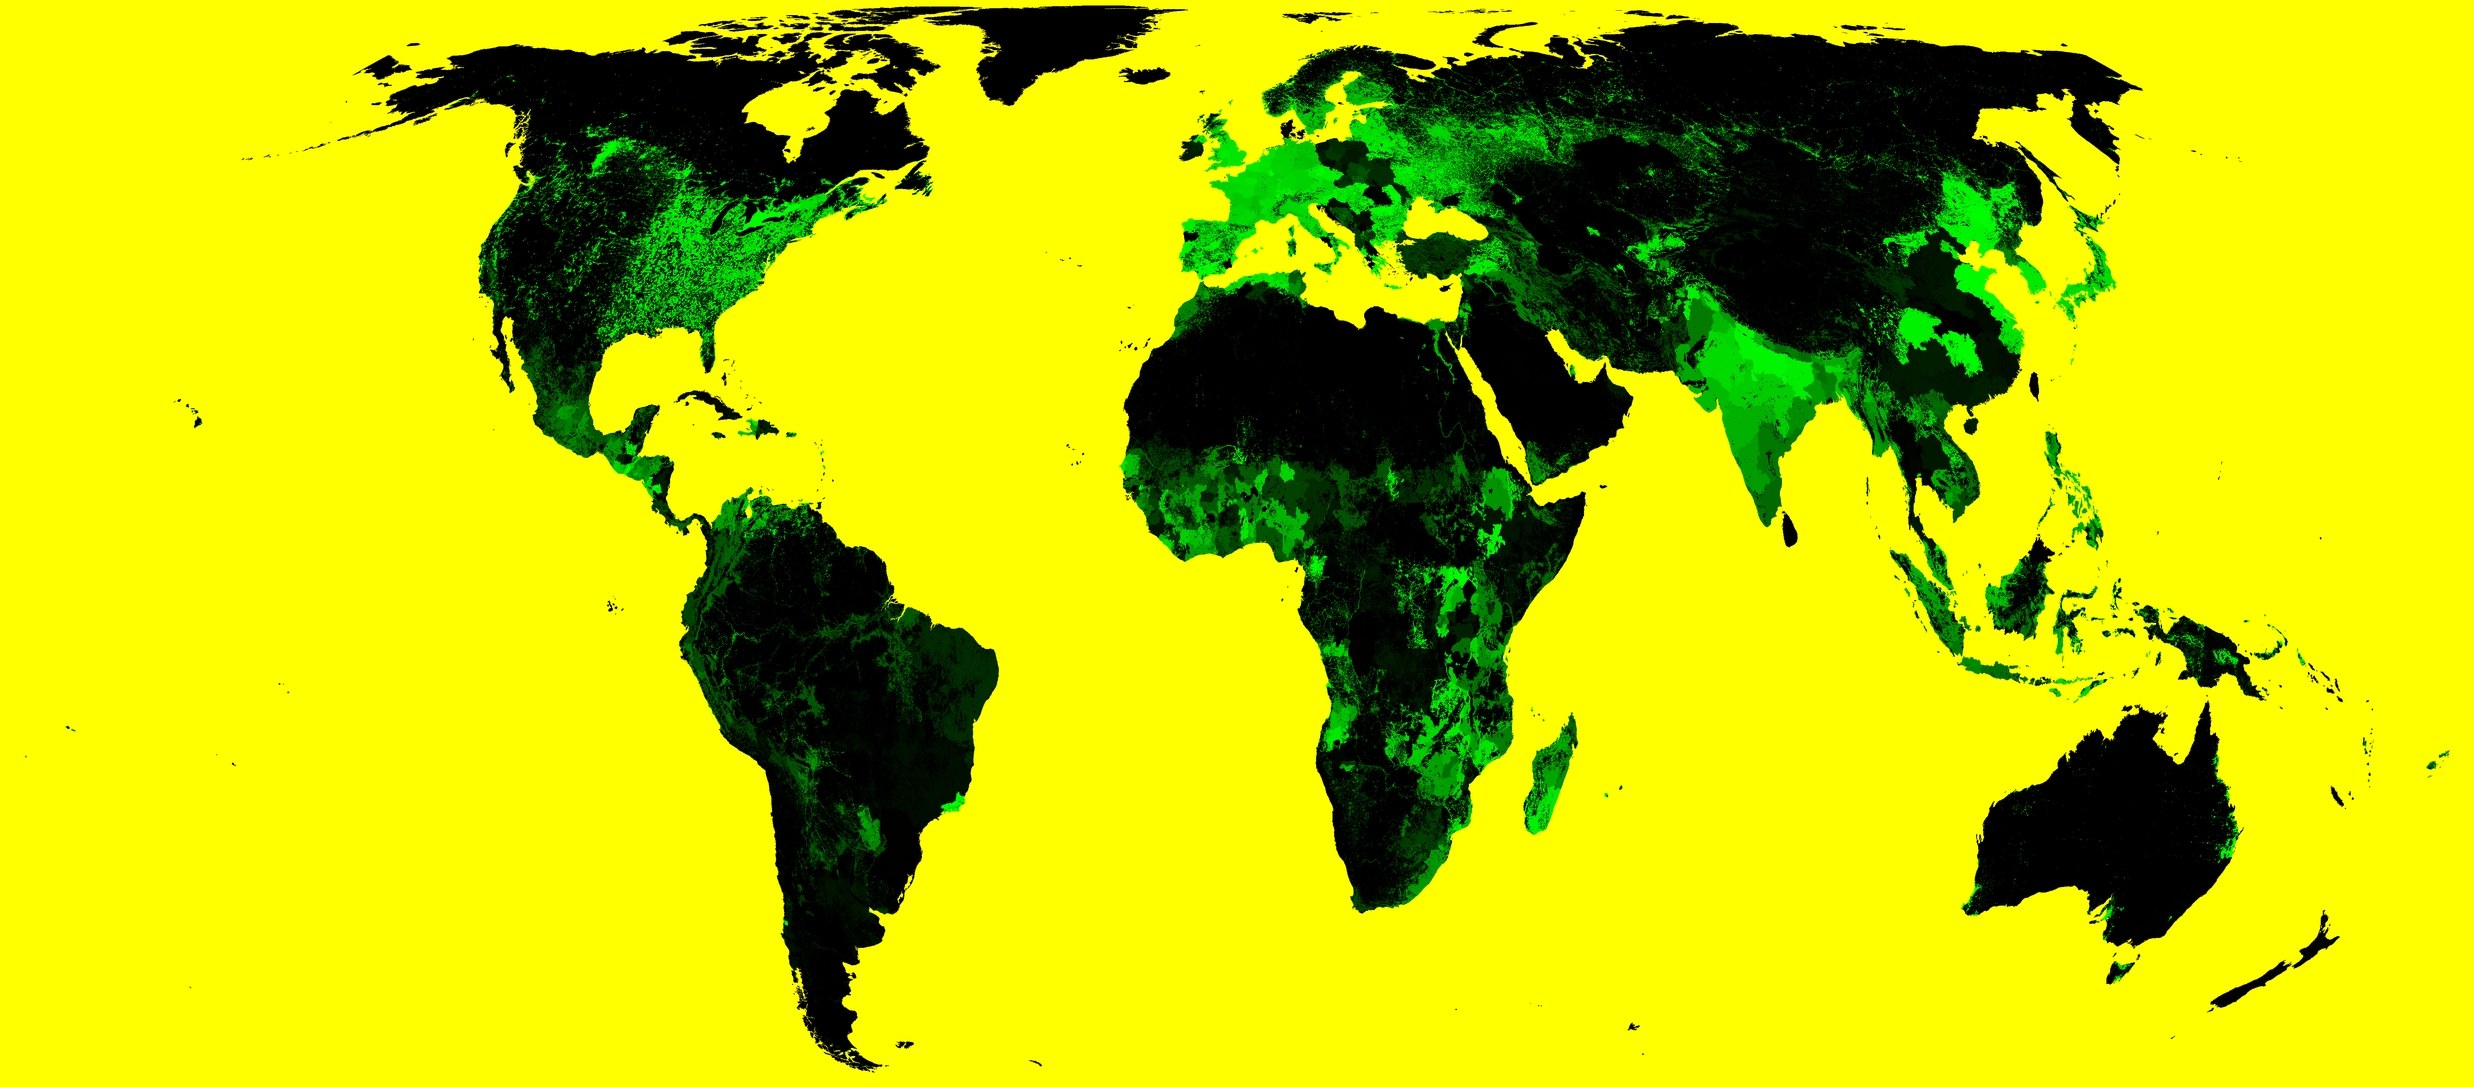
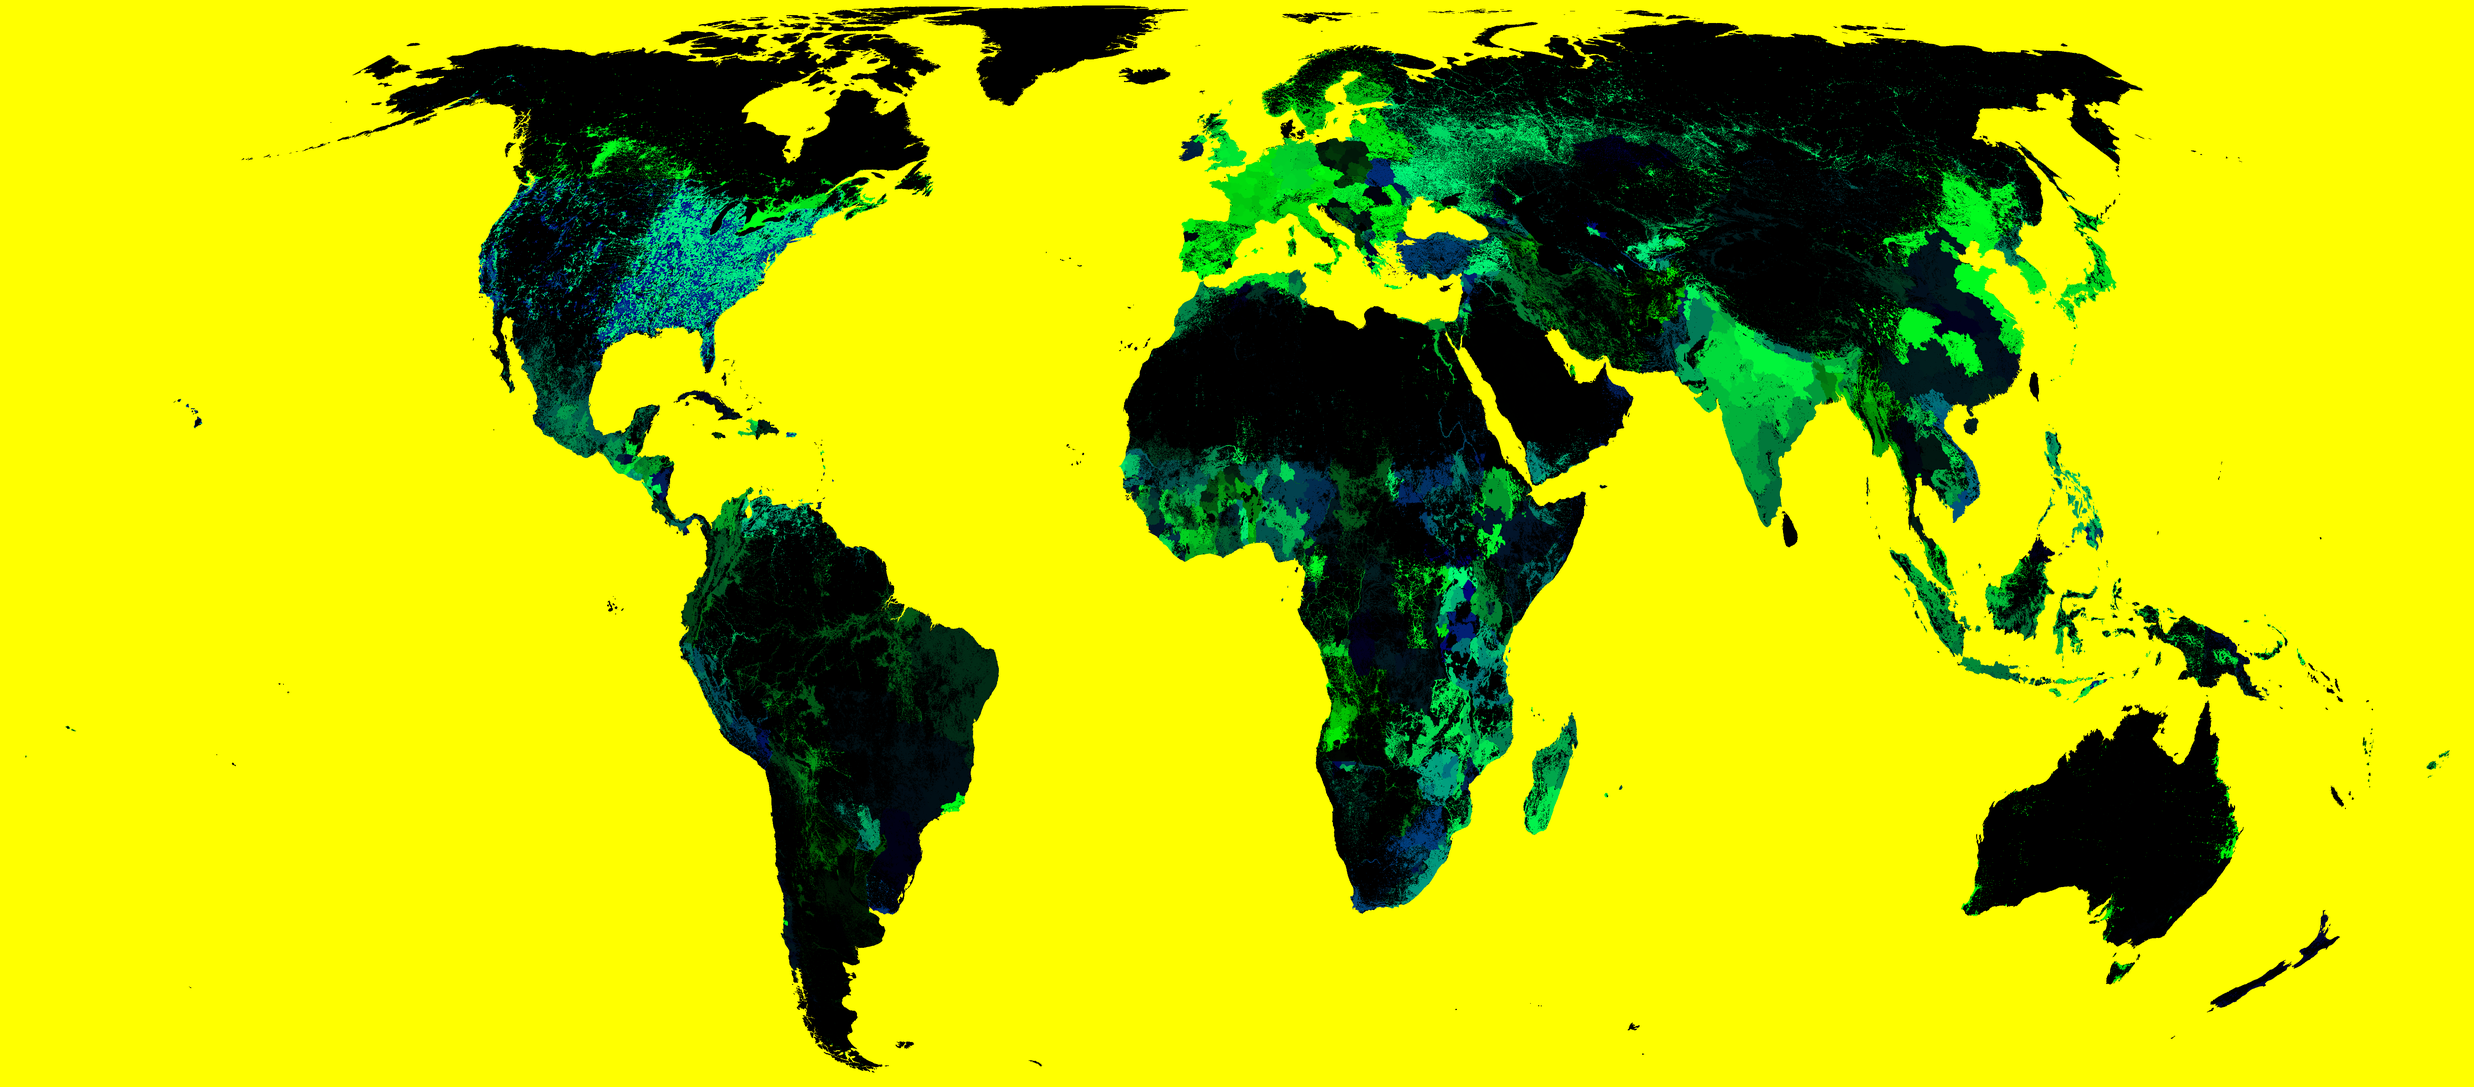
worldColumns: household readout says its source and year; US tracts weighted by people
Hovering on the household map now adds where the figure comes from and how
old it is ("2000 census, scaled to the UN's 2020 figure", "ACS 2020-2024,
by census tract", "UN national figure, 2016"), stored per cell in the PNG's
blue channel as an index into 134 labels in layers.json.

US tracts now share their households among their pixels by GHS-POP
population instead of area, so a big rural tract's households land in its
towns. 14% of US cells moved by more than 0.05 and 1.7% by more than 0.2;
the national figure stays 2.53 and nothing outside the US changed.

diff --git a/worldColumns/main.js b/worldColumns/main.js
@@ -598,7 +598,22 @@ async function loadMap(map, period) {
       if (map === 'windows') values[i] = r === noData ? NO_VALUE : r;
       else values[i] = (r << 8) | g;
     }
-    decoded.set(file, {values, width, height, cell: WORLD / width});
+    // A map with `sources` keeps, in blue, which one each cell's figure
+    // comes from (the household map: which census or survey, and its year).
+    const labels = map === 'windows' ? null : layers.layers[map].sources;
+    let source = null;
+    if (labels) {
+      source = new Uint8Array(width * height);
+      for (let i = 0; i < source.length; i++) source[i] = rgba[i * 4 + 2];
+    }
+    decoded.set(file, {
+      values,
+      width,
+      height,
+      cell: WORLD / width,
+      source,
+      labels,
+    });
   }
   return decoded.get(file);
 }
@@ -1118,6 +1133,12 @@ function showReadout() {
   b.textContent = emptyText(value) ?? map.format(value) + map.readout;
   if (map.top && value > map.top) b.textContent += map.doubt;
   readout.append(b);
+  const from = src.source?.[cy * src.width + cx];
+  if (from) {
+    const note = document.createElement('small');
+    note.textContent = src.labels[from];
+    readout.append(document.createElement('br'), note);
+  }
   // Beside the pointer, kept on screen: to the left of it near the right
   // edge, above it near the bottom (a finger covers what's below).
   readout.hidden = false;

diff --git a/worldColumns/index.html b/worldColumns/index.html
@@ -44,6 +44,7 @@
   }
   .readout { position: fixed; left: 0; top: 0; pointer-events: none; font: 300 12px/1.35 Jost, sans-serif; color: var(--ink); text-shadow: 0 0 3px var(--halo), 0 0 6px var(--halo), 0 0 9px var(--halo); white-space: nowrap; }
   .readout b { font-weight: 400; font-size: 14px; }
+  .readout small { font-size: 11px; opacity: 0.75; }
   .readout[hidden] { display: none; }
   body.glide .maps, body.glide .help, body.glide .readout, body.glide .lil-gui { display: none !important; }
 </style>

diff --git a/worldColumns/build/layers.py b/worldColumns/build/layers.py
@@ -281,7 +281,8 @@ def household(grid, people, land):
     CORESIDENCE has none; Saudi Arabia, Taiwan and the UAE, with neither,
     have none. The US and Puerto Rico come from census tracts instead (see
     us_tracts). 0 where fewer than 1 person per km² lives, 1 on land no
-    source covers."""
+    source covers. Also returns where each cell's figure comes from, as an
+    index into the list of labels it returns too (0 for none)."""
     import csv
     import sqlite3
     un = un_household_sizes()
@@ -299,17 +300,31 @@ def household(grid, people, land):
     db = sqlite3.connect(os.path.join(SOURCES, 'SUBNATIONAL_BOUNDARIES_CORESIDENCE_PROJECT.gpkg'))
     db_country = dict(db.execute('select GEOLEVEL1, C1 from a1_world_subnational_coresidence_new'))
     fix = {'URU': 'URY'}
-    values = []
+    labels = ['']
+    def label(text):
+        if text not in labels:
+            labels.append(text)
+        return labels.index(text)
+
+    kinds = {'IPUMS': 'census', 'DHS': 'DHS survey', 'MICS': 'MICS survey', 'LFS': 'labour force survey',
+             'SILC': 'EU income survey', 'HILDA': 'HILDA survey'}
+    values, sources = [], []
     for code in codes:
         iso = fix.get(db_country[code], db_country[code])
         if code in latest:
             year, sample, v = latest[code]
+            _, when, kind = sample.split('_')
+            text = f"{when.replace('-', '–')} {kinds.get(kind, 'survey')}"
             if iso in un and un[iso][0] > year and sample in national:
                 v *= un[iso][1] / national[sample]
+                text += f", scaled to the UN's {un[iso][0]} figure"
+            sources.append(label(text))
         else:
             v = un.get(iso, (0, np.nan))[1]
+            sources.append(label(f'UN national figure, {un[iso][0]}') if iso in un else 0)
         values.append(v)
     values = np.array(values + [np.nan])  # the last for cells in no region
+    sources = np.array(sources + [0])
     region = spread(rasterize(grid, [shapes[c] for c in codes]), land, 2)
     region_iso = np.array([fix.get(db_country[c], db_country[c]) for c in codes] + [''])[region]
     # Under the regions, every country with a UN figure, for the places
@@ -317,7 +332,7 @@ def household(grid, people, land):
     countries = json.load(open(os.path.join(SOURCES, 'ne_10m_admin_0_countries.geojson')))['features']
     # CORESIDENCE's outlines are generalized: Malaysia's covers Singapore and
     # China's Taiwan, so a region counts only inside its own country.
-    outlines, sizes, isos = [], [], []
+    outlines, sizes, isos, country_sources = [], [], [], []
     for f in countries:
         p = f['properties']
         iso = p['ISO_A3'] if p['ISO_A3'] != '-99' else p['ADM0_A3']
@@ -327,16 +342,25 @@ def household(grid, people, land):
         outlines.append([np.array(poly[0]) for poly in polygons])
         sizes.append(un.get(iso, (0, np.nan))[1])
         isos.append(iso)
+        country_sources.append(label(f'UN national figure, {un[iso][0]}') if iso in un else 0)
     country = spread(rasterize(grid, outlines), land, 6)
     country_iso = np.array(isos + [''])[country]
-    out = values[region]
-    out = np.where((country_iso == '') | (country_iso == region_iso), out, np.nan)
-    out = np.where(np.isnan(out), np.array(sizes + [np.nan])[country], out)
+    own = (country_iso == '') | (country_iso == region_iso)
+    out = np.where(own, values[region], np.nan)
+    source = np.where(own & ~np.isnan(out), sources[region], 0)
+    fallback = np.isnan(out)
+    out = np.where(fallback, np.array(sizes + [np.nan])[country], out)
+    source = np.where(fallback, np.array(country_sources + [0])[country], source)
     # The US and Puerto Rico by census tract, far finer than their states.
-    tract = us_tracts(grid)
-    out = np.where(np.isin(country_iso, ['USA', 'PRI']) & ~np.isnan(tract), tract, out)
+    tract = us_tracts(grid, people)
+    us = np.isin(country_iso, ['USA', 'PRI']) & ~np.isnan(tract)
+    out = np.where(us, tract, out)
+    source = np.where(us, label('ACS 2020–2024, by census tract'), source)
+    lived = people >= 1
+    source = np.where(lived & ~np.isnan(out), source, 0)
     out = np.where(np.isnan(out), 0.01, out)  # stored as 1: no data
-    return np.where(people >= 1, out * 100, 0)
+    assert len(labels) <= 256
+    return np.where(lived, out * 100, 0), source.astype(np.uint8), labels
 
 
 # --- regions -----------------------------------------------------------------
@@ -453,12 +477,15 @@ def shapefile(path):
     return out
 
 
-def us_tracts(grid):
+def us_tracts(grid, density):
     """People per household in each cell from the ACS 2020-2024 tract
-    figures, NaN where no tract has households. A tract's households are
-    spread evenly over its area, drawn 6 pixels to a cell each way, so a cell
-    is its tracts' people over their households; a tract too small to cover
-    a pixel puts all of them in the cell at its middle."""
+    figures, NaN where no tract has households. Tracts are drawn 6 pixels to
+    a cell each way, and a tract's households are shared among its pixels by
+    how many people live there (`density`, GHS-POP), not by area, so a huge
+    rural tract's households go to its towns rather than its empty range. A
+    cell is then its tracts' people over their households. A tract with no
+    one in its pixels shares them by area; one too small to cover a pixel
+    puts all of them in the cell at its middle."""
     import csv
 
     def table(name, column):
@@ -486,6 +513,8 @@ def us_tracts(grid):
     group = np.array([(g[:2] if g[:2] in ('02', '15') else 'rest') + ('+' if rings[0][0, 0] > 0 else '')
                       for g, rings in tracts])
     pixels = np.zeros(len(tracts))
+    weight = np.zeros(len(tracts))
+    density = density.ravel()
     drawn = []
     for key in np.unique(group):
         members = np.flatnonzero(group == key)
@@ -499,9 +528,10 @@ def us_tracts(grid):
         t = members[index[ok]]
         cell = (row0 + rr // scale) * grid.width + col0 + cc // scale
         pixels += np.bincount(t, minlength=len(tracts))
+        weight += np.bincount(t, density[cell], len(tracts))
         drawn.append((t, cell))
     for t, cell in drawn:
-        share = 1 / pixels[t]
+        share = np.where(weight[t] > 0, density[cell] / np.maximum(weight[t], 1e-12), 1 / pixels[t])
         cell_people += np.bincount(cell, people[t] * share, n)
         cell_hh += np.bincount(cell, hh[t] * share, n)
     for i in np.flatnonzero(pixels == 0):
@@ -509,7 +539,8 @@ def us_tracts(grid):
         cell = int(row) * grid.width + int(col)
         cell_people[cell] += people[i]
         cell_hh[cell] += hh[i]
-    print(f'  {len(tracts)} tracts, {np.sum(pixels == 0)} too small to draw, {hh.sum() / 1e6:.1f} M households, '
+    print(f'  {len(tracts)} tracts, {np.sum(pixels == 0)} too small to draw, '
+          f'{np.sum((pixels > 0) & (weight == 0))} with no one in GHS-POP, {hh.sum() / 1e6:.1f} M households, '
           f'{people.sum() / hh.sum():.2f} people each')
     out = np.where(cell_hh > 0, cell_people / np.maximum(cell_hh, 1e-9), np.nan)
     return out.reshape(grid.height, grid.width)
@@ -533,14 +564,17 @@ def spread(index, land, steps):
 
 # --- output ------------------------------------------------------------------
 
-def write(name, values, land, width, unit, note, step=1):
-    """Rounds to `step` (which compresses far better) and saves."""
+def write(name, values, land, width, unit, note, step=1, blue=None):
+    """Rounds to `step` (which compresses far better) and saves, with
+    `blue` (one byte per cell) in the blue channel if given."""
     v = np.round(np.nan_to_num(values) / step) * step
     v = np.clip(v, 0, NO_DATA - 1).astype(np.uint16)
     v = np.where(land, v, NO_DATA)
     rgb = np.zeros(v.shape + (3,), np.uint8)
     rgb[..., 0] = v >> 8
     rgb[..., 1] = v & 255
+    if blue is not None:
+        rgb[..., 2] = np.where(land, blue, 0)
     path = os.path.join(DATA_DIR, f'{name}.png')
     Image.fromarray(rgb).save(path, optimize=True)
     shown = v[land]
@@ -571,12 +605,16 @@ def main():
         'population': (lambda: people() / 2, 'people per ½ km²', 'people/km² halved', 1),
         'lights': (lambda: lights(grid, people(), land), 'nW/(cm² sr)×10', 'VNP46A4 2023 radiance times 10', 1),
         'travel': (lambda: travel(grid), 'minutes', 'to 5 minutes', 5),
-        'household': (lambda: household(grid, people(), land), 'people ×100', 'people per household times 100', 1),
     }
     for name in wanted:
         if name in fine:
             make, unit, note, step = fine[name]
             info['layers'][name] = write(name, make(), land, FINE, unit, note, step)
+    if 'household' in wanted:
+        values, source, labels = household(grid, people(), land)
+        info['layers']['household'] = write('household', values, land, FINE, 'people ×100',
+                                            'people per household times 100; blue: index into sources', 1, source)
+        info['layers']['household']['sources'] = labels
     if 'rain' in wanted:
         row, col, on_land, _, _ = equal_earth(era5_land())
         info['layers']['rain'] = write('rain', rain()[row, col], on_land, NI, 'mm', '')

diff --git a/worldColumns/README.md b/worldColumns/README.md
@@ -8,7 +8,7 @@ The world's land in columns on an Equal Earth map, each as tall as one number fo
 - **Population**: people per square mile in 2025. Zoomed out, each column is the root mean square of its cells, as for night lights, so cities aren't averaged away.
 - **Travel time** to the nearest city of 50,000 people.
 - **Rain** over the same year as the open-window map. Its top is 12 m (470 in), about the most any place gets in a year, because ERA5-Land goes past that only where it's wrong: up to 25 m on steep slopes like the Andes near Manizales (about 2 m in fact) and the Rwenzori. It errs the other way at the real wettest spots, which its 9 km cells smooth over (Mawsynram 3.9 m against about 11.9 m measured; Mount Waiʻaleʻale 1.3 m against about 9.5 m). Hovering over one of the overshooting columns says so.
-- **Household size**: people in the average household, by province or state (by census tract in the US and Puerto Rico), from 1 (living alone) up. Shown only where at least one person per km² lives; the rest of the land is a plain grey stub, as is the little no source covers (Saudi Arabia, Taiwan, the UAE). The tallest are West Africa's (Gambia, Senegal, Mali, up to 12.9) and Afghanistan's and Pakistan's (6–9); the lowest are northern Europe's (Berlin 1.8).
+- **Household size**: people in the average household, by province or state (by census tract in the US and Puerto Rico), from 1 (living alone) up. Shown only where at least one person per km² lives; the rest of the land is a plain grey stub, as is the little no source covers (Saudi Arabia, Taiwan, the UAE). Hovering also says where the figure comes from and how old it is ("2000 census, scaled to the UN's 2020 figure"); the build stores that per cell in the PNG's blue channel, as an index into `sources` in `layers.json`. The tallest are West Africa's (Gambia, Senegal, Mali, up to 12.9) and Afghanistan's and Pakistan's (6–9); the lowest are northern Europe's (Berlin 1.8).
 
 Each map's tallest column is its highest value (except rain's), so nothing is cut off flat; the curve from floor to top (gamma in Settings › Columns) keeps ordinary values from being dwarfed by the extremes.
 
@@ -62,7 +62,7 @@ These were run under the original test, 62°F around the clock and no wind limit
 - Travel time: layer 11 of [Nelson 2019](https://figshare.com/articles/dataset/Travel_time_to_cities_and_ports_in_the_year_2015/7638134), 30″: minutes to the nearest city of at least 50,000 people in 2015, on the friction surface of Weiss et al. 2018 (Nature).
 - Rain: ERA5-Land monthly means for Nov 2025 to Oct 2026, 0.1°, on the open-window map's own grid.
 - Household size: [CORESIDENCE](https://zenodo.org/records/12721630) (Galeano et al. 2024, *Scientific Data*, CC BY 4.0), the harmonized subnational dataset and its outlines: average household size (HS17) from IPUMS censuses, DHS, MICS and European surveys. Each region takes its latest figure (three in four since 2010; China's are from 2000), times the ratio of its country's latest figure in the UN's [Household Size and Composition 2026](https://population.un.org/Household/index.html) to that sample's national average, when the UN's is newer (China 3.4 in 2000 → 2.6 in 2020). Countries without regions take the UN's national figure on [Natural Earth](https://www.naturalearthdata.com/) 1:10m outlines. CORESIDENCE's outlines are generalized (Malaysia's covers Singapore, China's covers Taiwan), so a region only counts inside its own Natural Earth country. The UN's 2026 edition gives Pakistan's 2017 census as 0.81, a slip, so values outside 1.5–15 are skipped. Checks: Nairobi 2.8 (2.9 in Kenya's 2019 census), Mexico City 3.35 (3.2 in INEGI 2020), Beijing 2.2 (2.3 in 2020), New York 2.45. Uninhabited means under 1 person per km² in GHS-POP; zoomed out, a block that's mostly uninhabited stays grey.
-- Household size in the US and Puerto Rico: the ACS 2020–2024 5-year estimates (released January 29, 2026) for each of 84,232 census tracts with households, table B25010 (average household size) and B25003 (occupied housing units, that is households), from the Census Bureau's table-based summary files (the API now needs a key), on the 2024 cartographic boundary file `cb_2024_us_tract_500k`. Each tract's households are spread evenly over its area, drawn at 6×6 pixels per cell, so a cell is its tracts' people over their households; the 5,424 tracts too small to cover a pixel (dense city blocks) count wholly in the cell at their middle. The national figure comes out at 2.53, as the ACS's own. Cells are 5.5 km, so a city's tracts are averaged together and a city label quotes its downtown cell, which runs below the county (St. Louis 1.8 against 1.92 for the city, Honolulu 1.8 against 2.85 for the county). A typical tract's margin of error is ±0.1–0.2.
+- Household size in the US and Puerto Rico: the ACS 2020–2024 5-year estimates (released January 29, 2026) for each of 84,232 census tracts with households, table B25010 (average household size) and B25003 (occupied housing units, that is households), from the Census Bureau's table-based summary files (the API now needs a key), on the 2024 cartographic boundary file `cb_2024_us_tract_500k`. Tracts are drawn at 6×6 pixels per cell, and each tract's households are shared among its pixels by how many people GHS-POP puts there, not by area, so a huge rural tract's households land in its towns rather than spread over its empty range; a cell is its tracts' people over their households. The 5,424 tracts too small to cover a pixel (dense city blocks) count wholly in the cell at their middle. Weighting by people rather than area moved 14% of US cells by more than 0.05 and 1.7% by more than 0.2, at the edges between busy and empty tracts. The national figure comes out at 2.53, as the ACS's own. Cells are 5.5 km, so a city's tracts are averaged together and a city label quotes its downtown cell, which runs below the county (St. Louis 1.8 against 1.92 for the city, Honolulu 1.8 against 2.85 for the county). A typical tract's margin of error is ±0.1–0.2.
 
 ## Building
 
